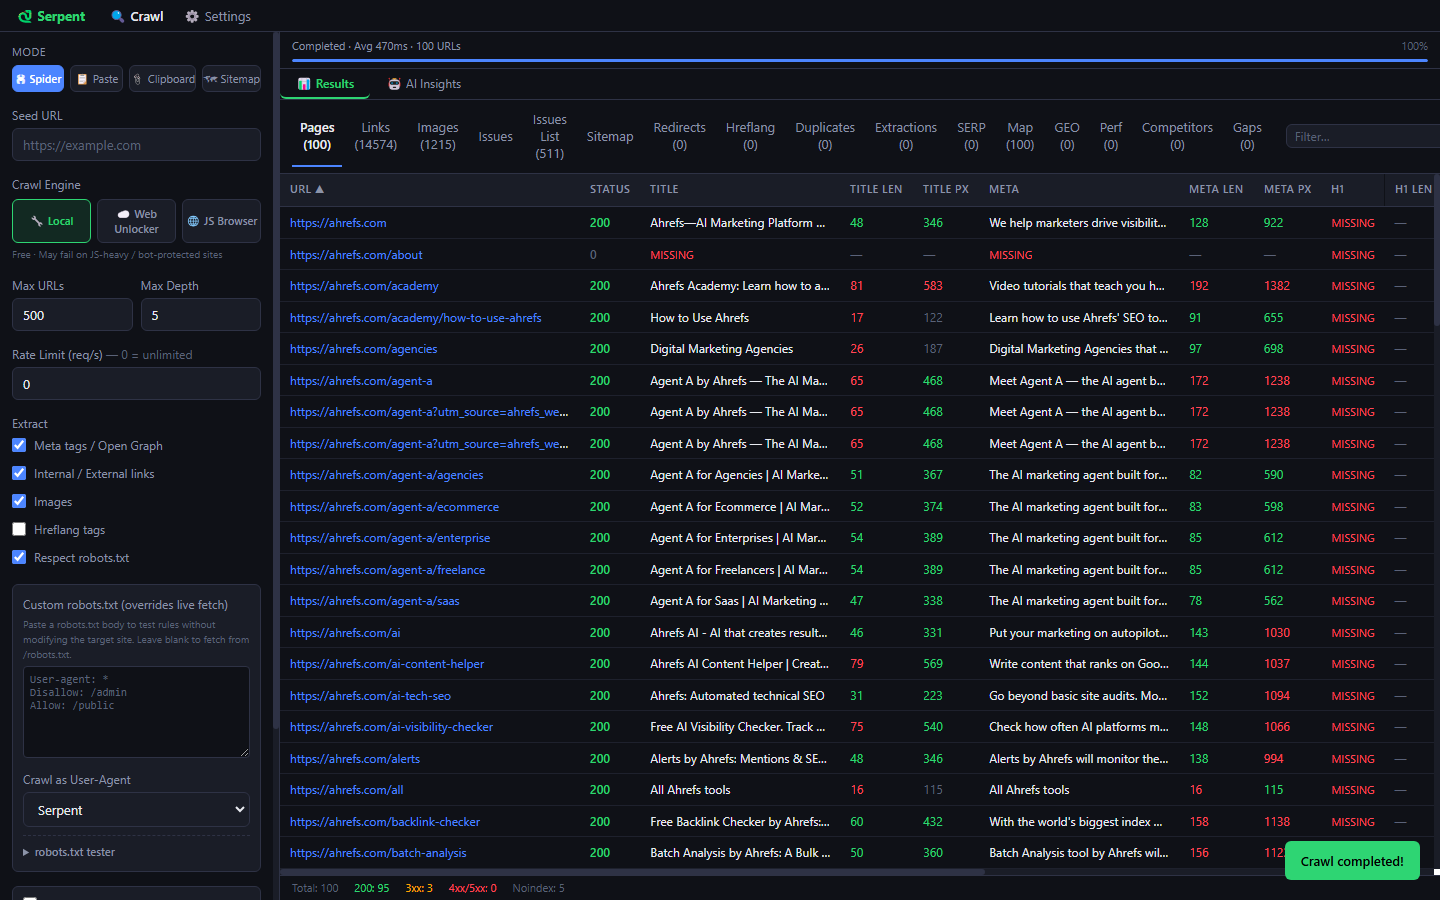
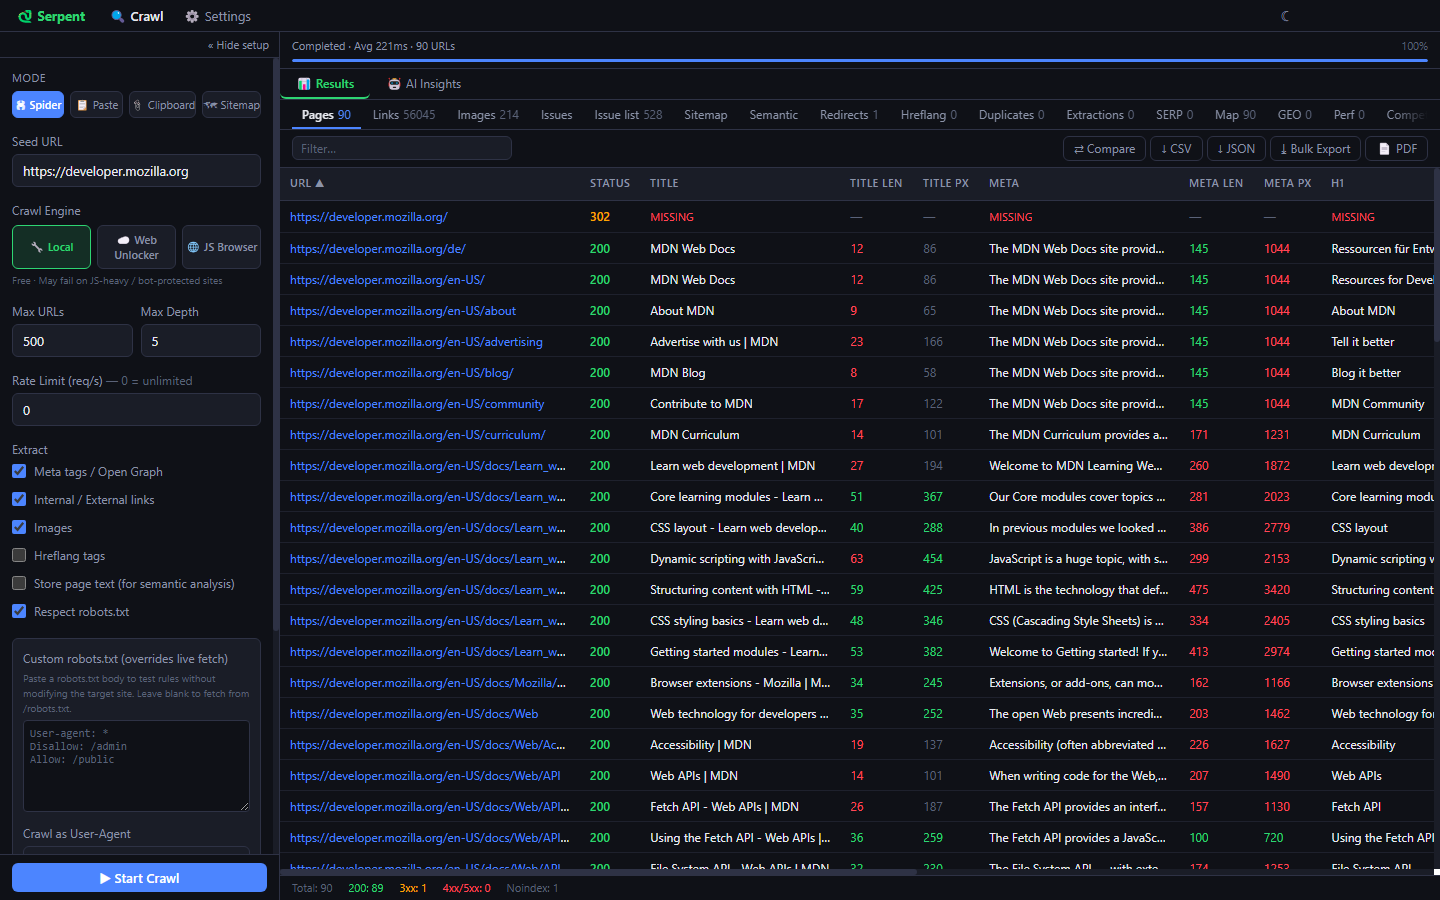
docs: regenerate README screenshots for the current UI
Old shots predated the layout and theming pass. Recaptured at 1440x900
against a 90-page crawl of developer.mozilla.org, dark theme throughout.
The issues shot now shows the three-pane Issues view rather than the flat
issue list, so the captions were updated to match.

diff --git a/README.md b/README.md
@@ -39,13 +39,13 @@ Serpent is a desktop site crawler that brings enterprise-grade technical SEO aud
 
 ## Screenshots
 
-| Crawl Results | Issues List |
+| Crawl Results | Issues |
 |---|---|
-| ![Crawl view showing pages table with SEO data](docs/screenshot-pages.png) | ![Issues List tab with SEO issue filters](docs/screenshot-issues.png) |
+| ![Crawl view showing pages table with SEO data](docs/screenshot-pages.png) | ![Three-pane Issues view: categories, issues, affected URLs](docs/screenshot-issues.png) |
 
 | Site Map (Treemap) | Settings |
 |---|---|
-| ![Treemap visualizing site structure by link score](docs/screenshot-treemap.png) | ![Settings panel with Bright Data and AI provider config](docs/screenshot-settings.png) |
+| ![Treemap visualizing site structure by link score](docs/screenshot-treemap.png) | ![Settings panel with theme switcher and Bright Data config](docs/screenshot-settings.png) |
 
 ---
 
